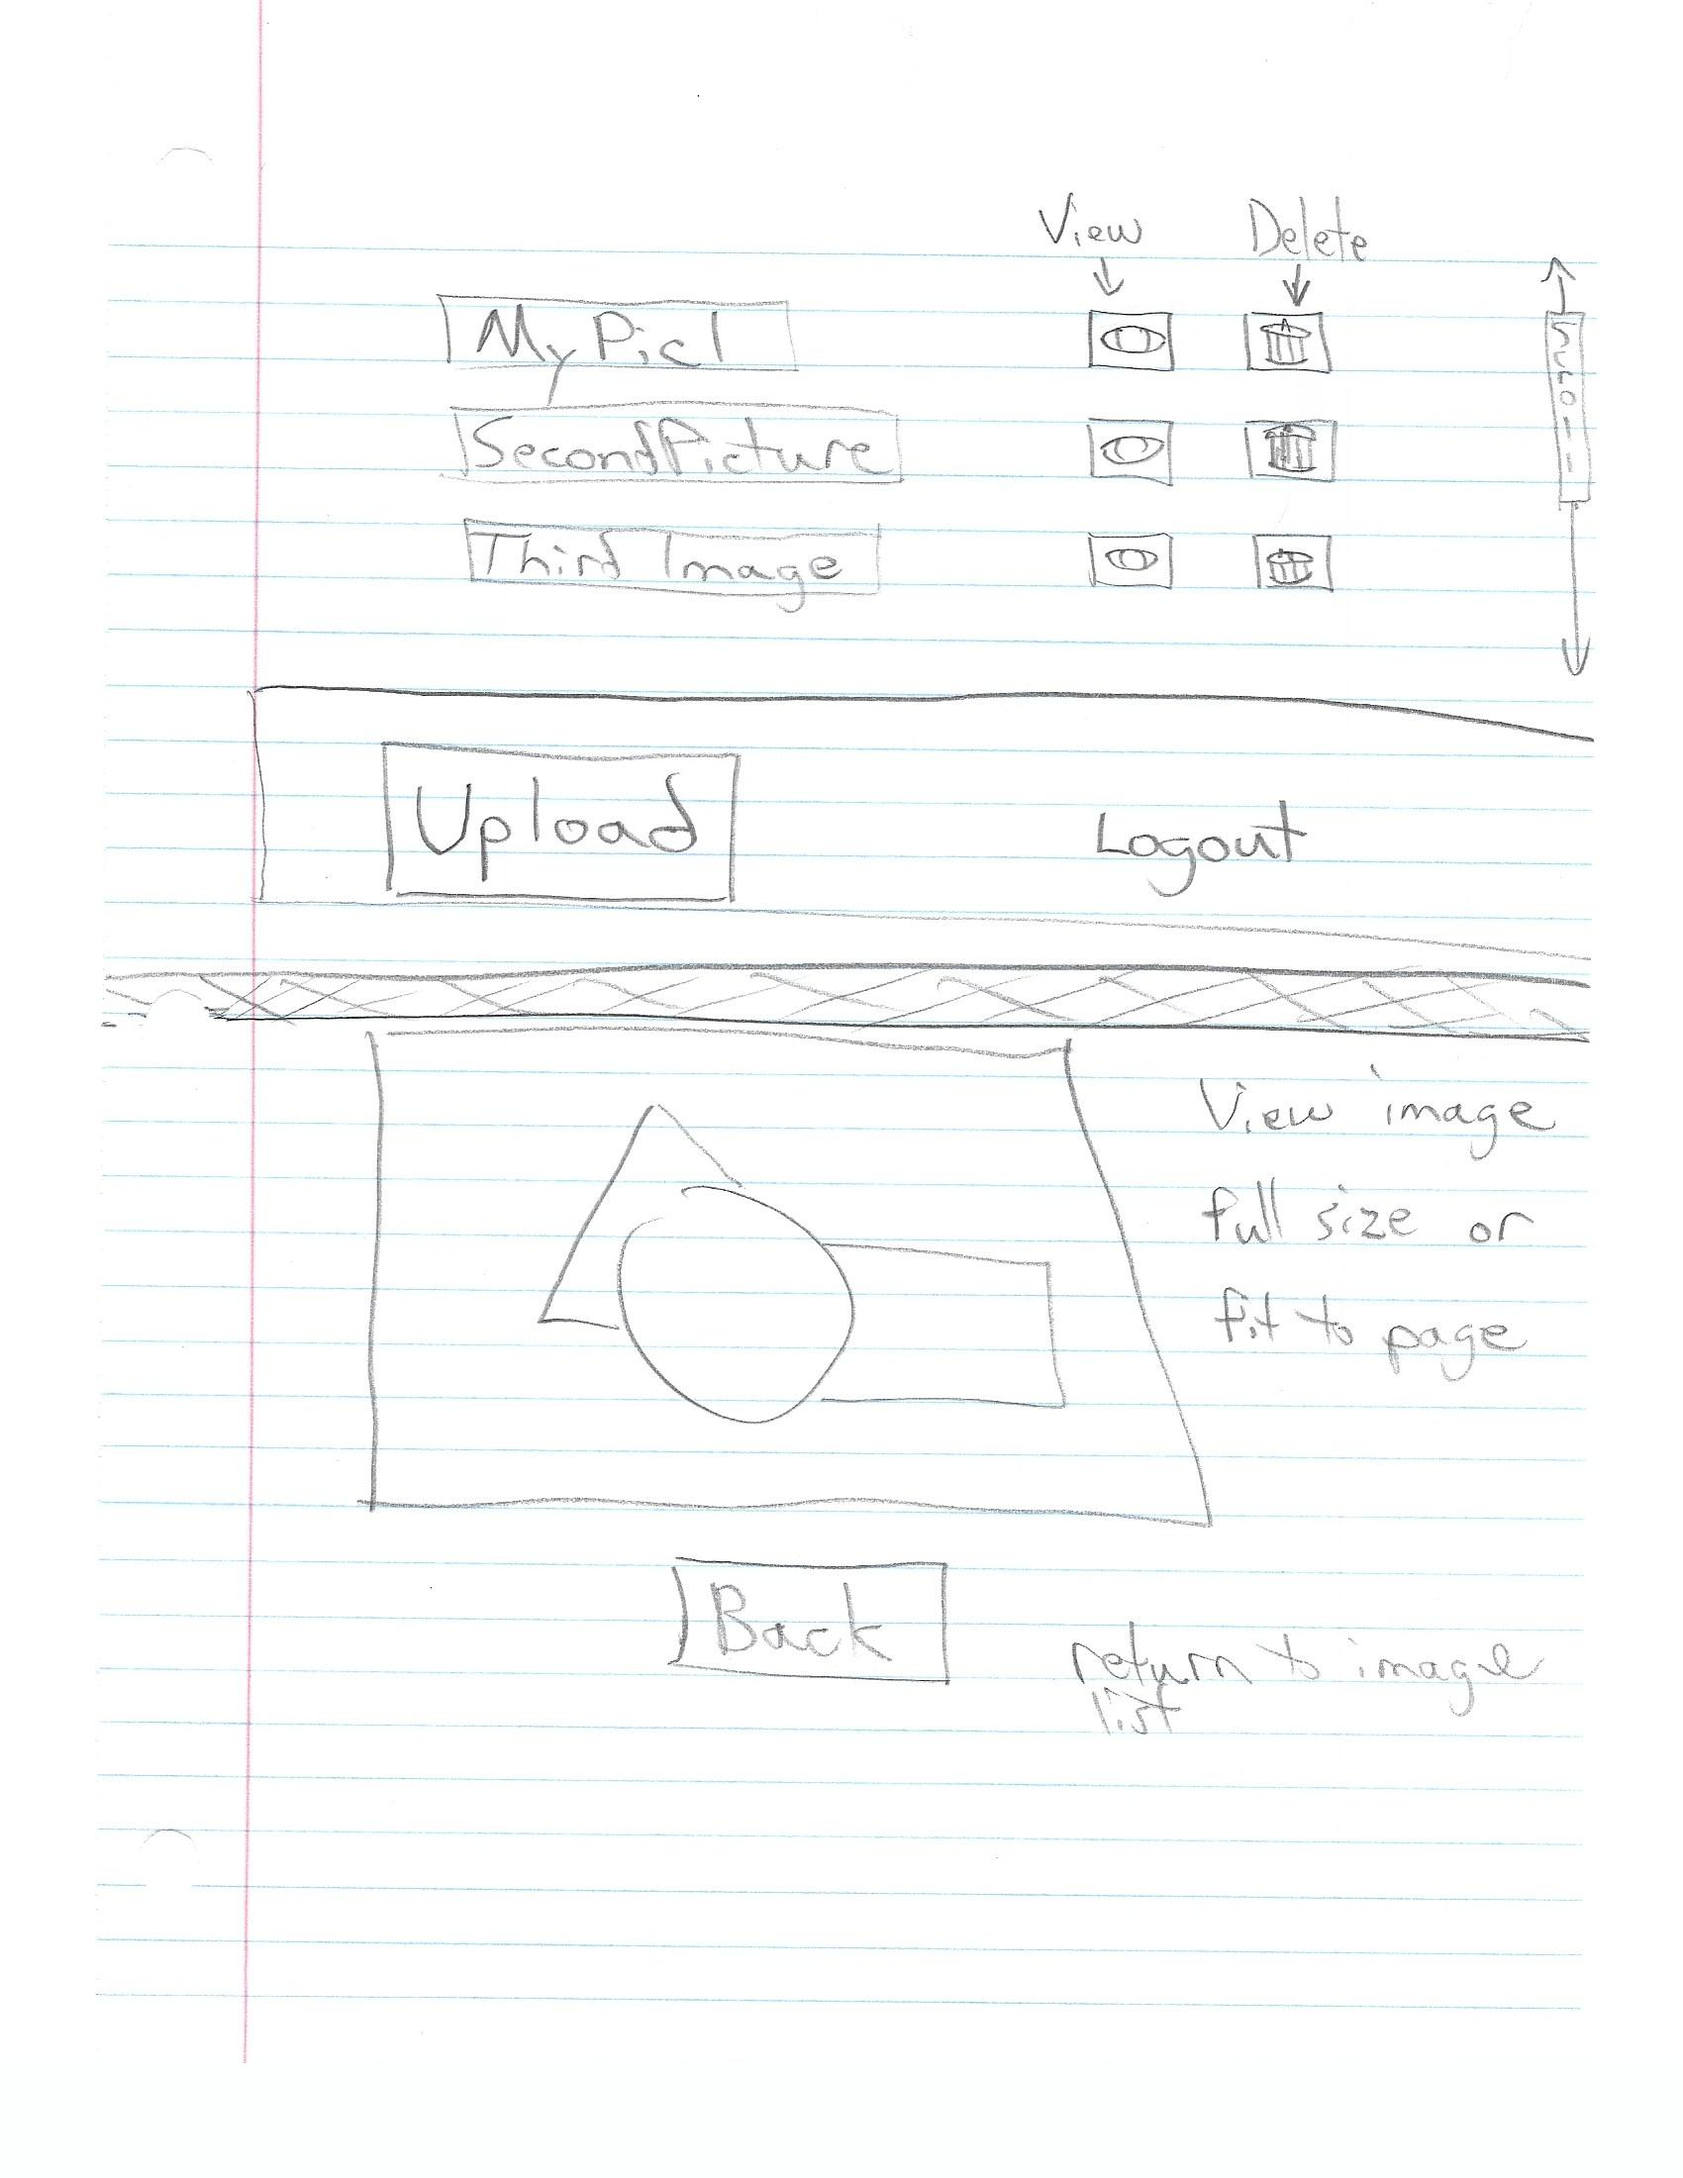
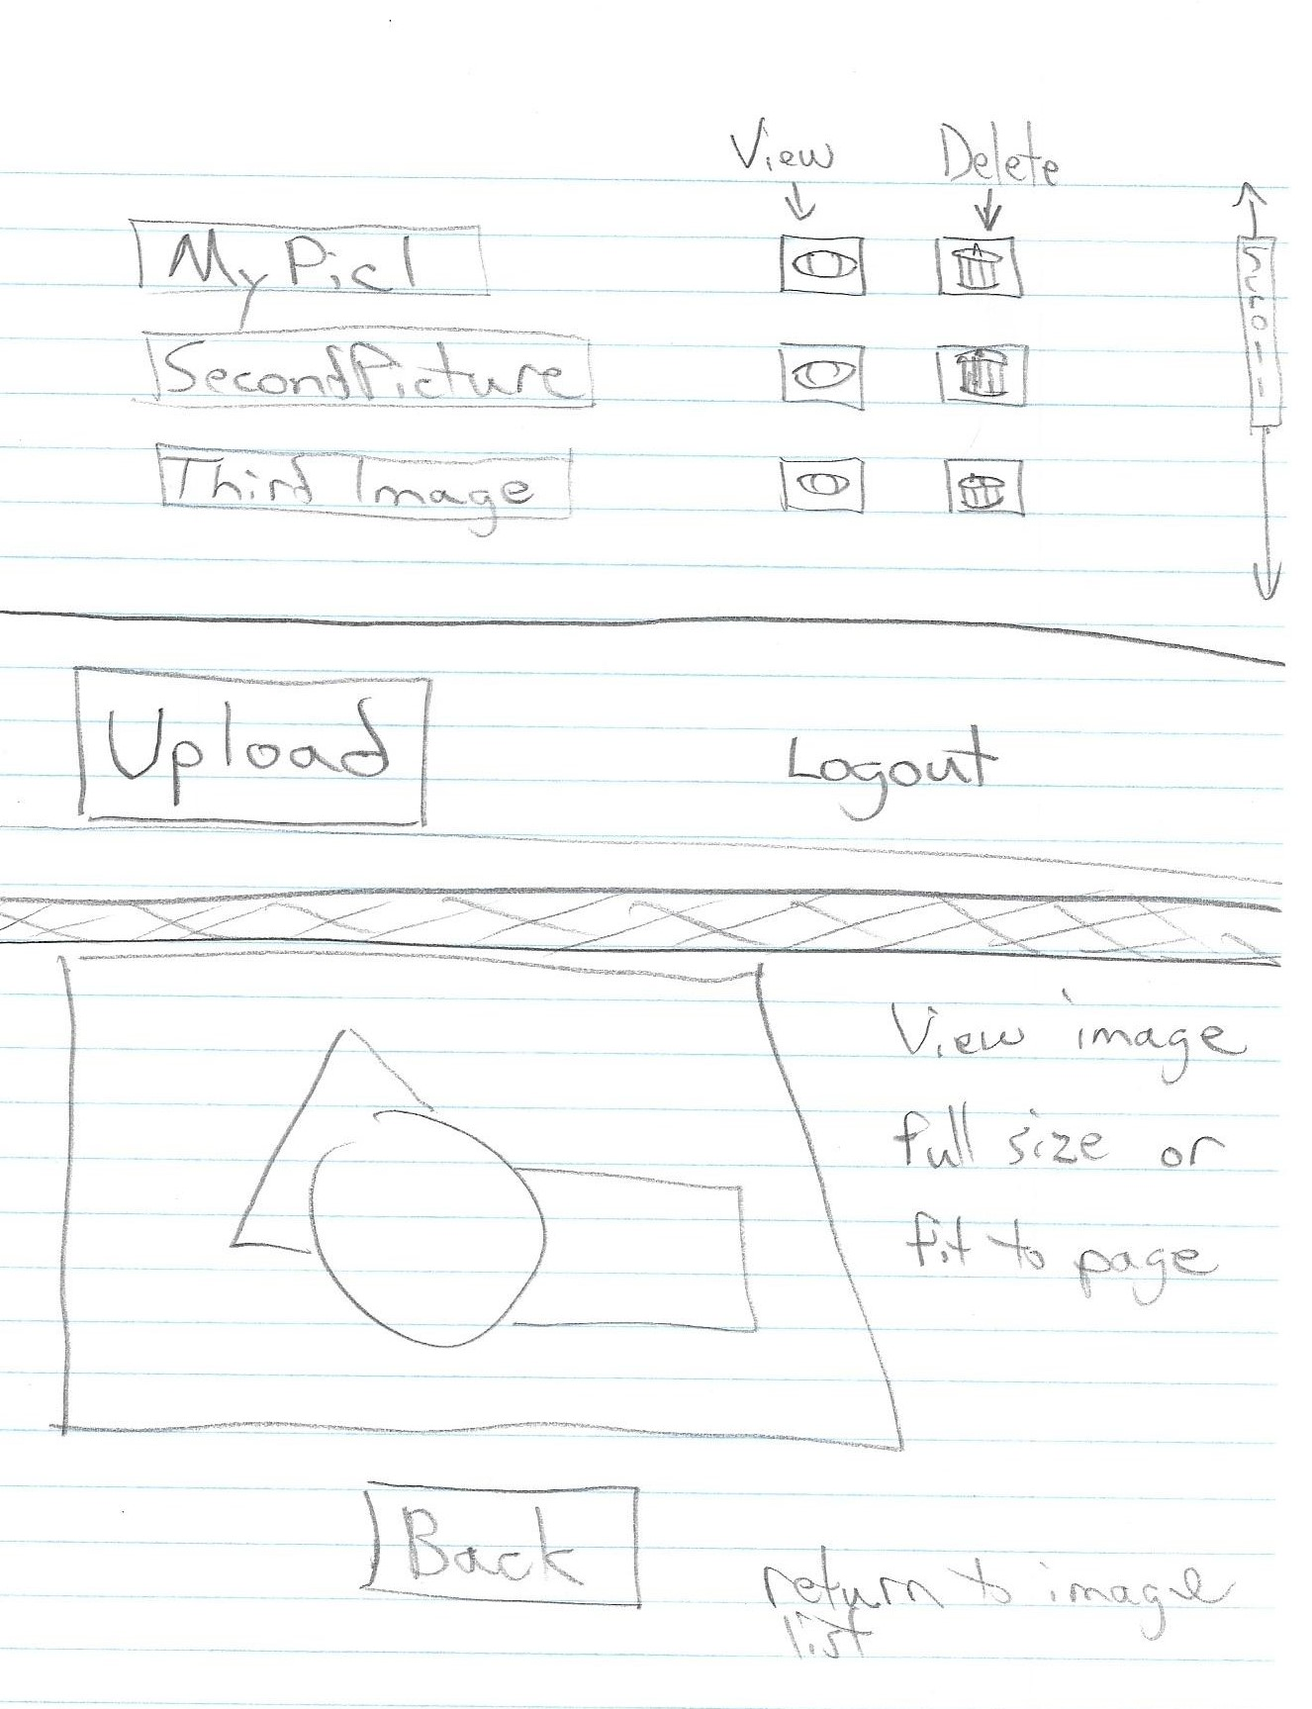
cropped wireframes and added image links to README

diff --git a/P3-Project_Planning/README.md b/P3-Project_Planning/README.md
@@ -10,10 +10,20 @@ For this assignment, you'll create some initial plans for your project.
 
 Include at least 3 wireframes here, adding images or files to your repository as necessary. Format them as a bulleted/unordered list with links to the files.
 
+These first two are what I consider the Minimum Product: Login, Upload, and Viewing Images:
+- https://raw.githubusercontent.com/robertsforest/liftoff-assignments/master/P3-Project_Planning/MVP%20Login%20Page.jpg
+- https://raw.githubusercontent.com/robertsforest/liftoff-assignments/master/P3-Project_Planning/MVP%20Image%20List%20and%20Viewer.jpg
+
+These two images show desired features such as thumbnail display, basic editing, and folder organization:
+- https://raw.githubusercontent.com/robertsforest/liftoff-assignments/master/P3-Project_Planning/Thumbnail%20Tile%20Display.jpg
+- https://raw.githubusercontent.com/robertsforest/liftoff-assignments/master/P3-Project_Planning/Edit%20and%20View%20Pages.jpg
+
 ### Project Tracker
 
 Include a link to your public Trello board. Be sure you have user stories added for at least your first 2-week sprint.
+https://trello.com/b/pOCw1SJD/launchcode-liftoff
 
 ### Project Repo Link
 
 Include a link to your project on GitHub.
+https://github.com/robertsforest/picatta
